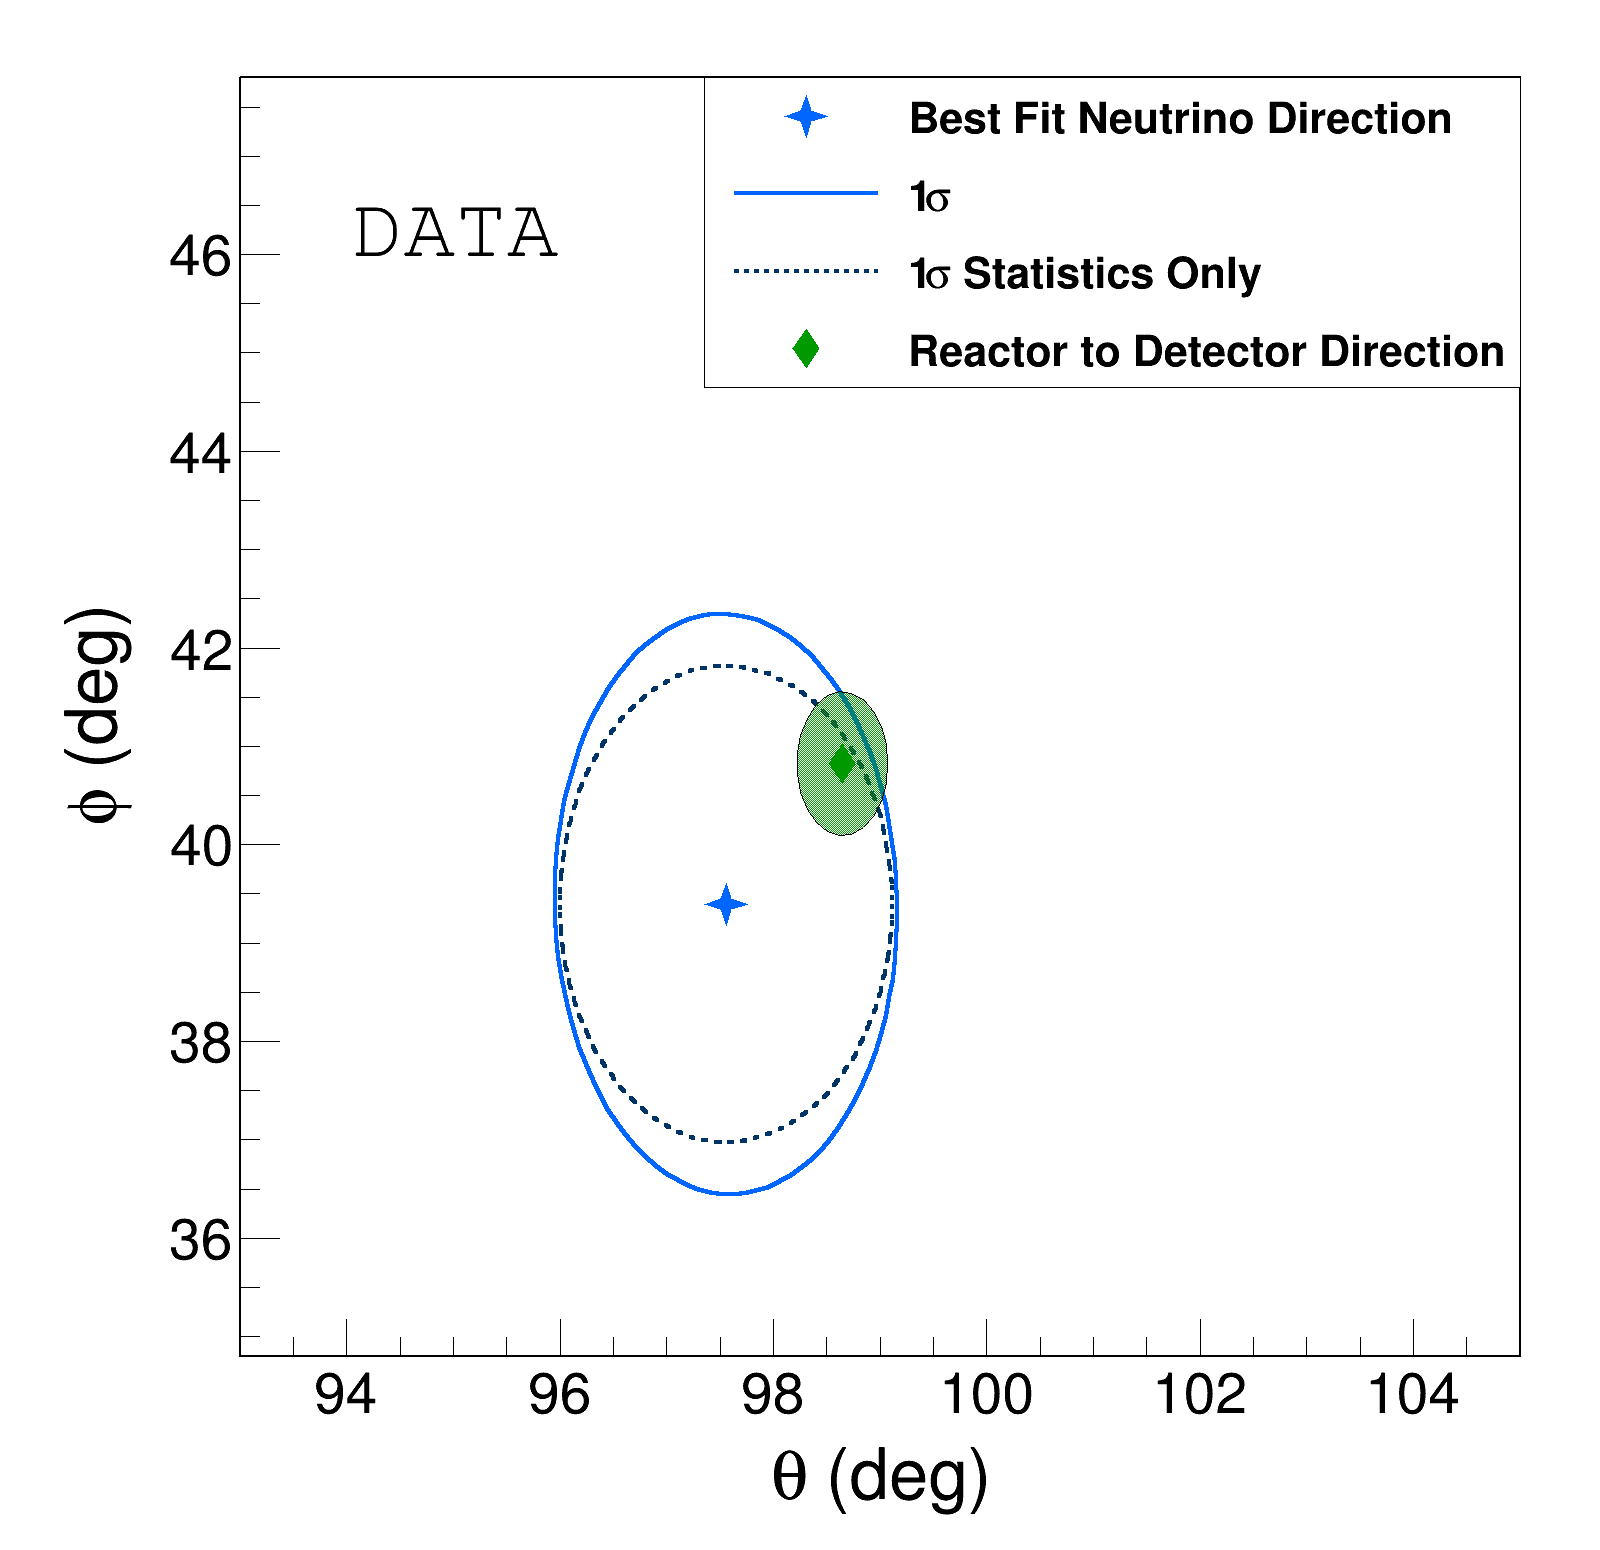
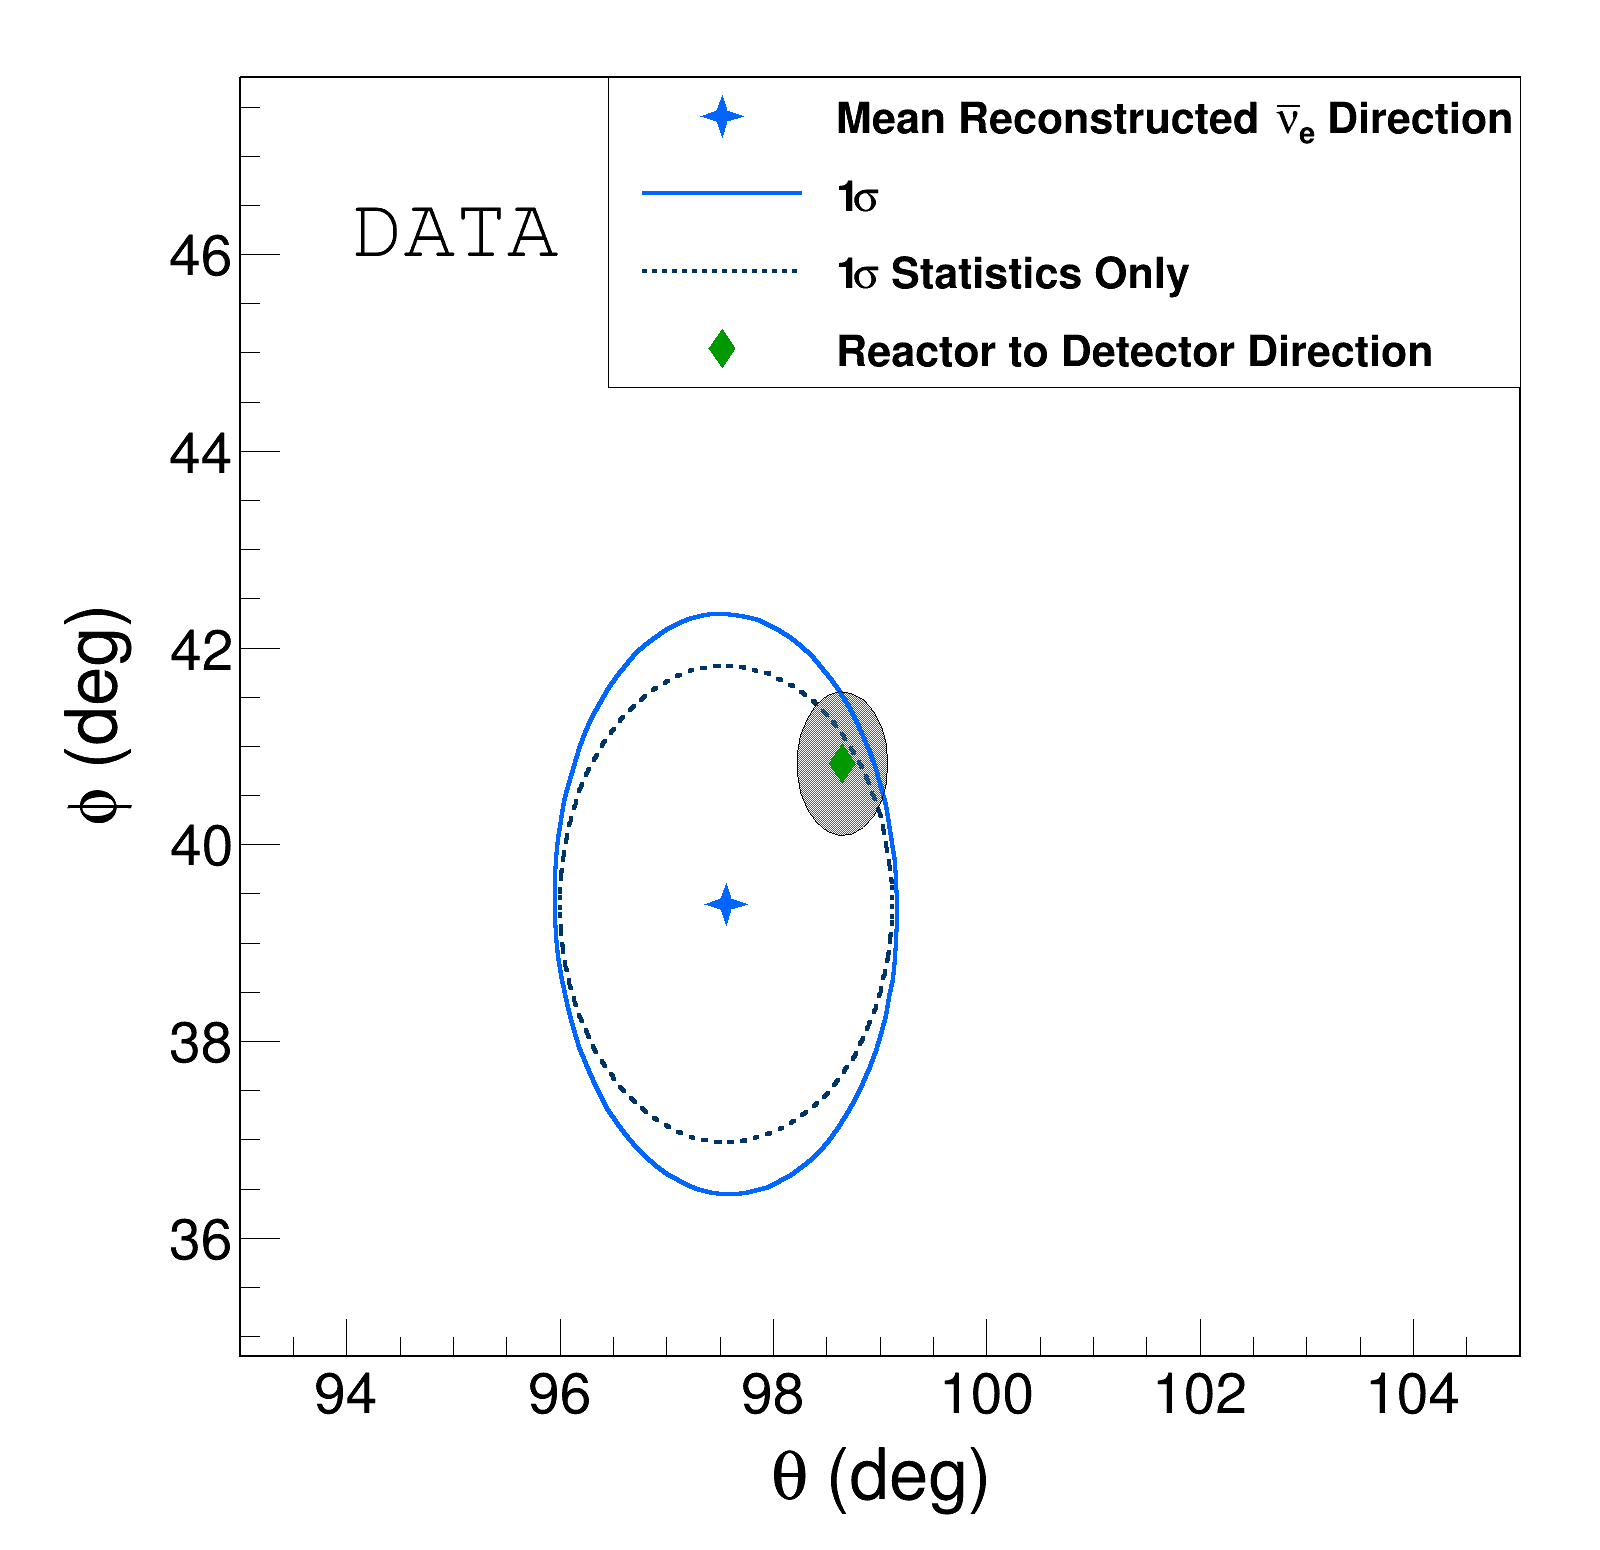
Changed legend again.

diff --git a/NeutrinoDirectionalityPlots.cc b/NeutrinoDirectionalityPlots.cc
@@ -272,8 +272,8 @@ void MakeSimulationPlot(FinalValues const& finalValues)
     TLegend legend(0.54, 0.75, 0.95, 0.95);
     legend.SetTextFont(62);
     legend.SetTextSize(0.03);
-    legend.AddEntry(&simPoint, "Reconstruction (Eq. 5)", "p");
-    legend.AddEntry(&simUncorrectedPoint, "Biased Recon. (Eq. 3)", "p");
+    legend.AddEntry(&simPoint, "Reconstruction", "p");
+    legend.AddEntry(&simUncorrectedPoint, "Biased Reconstruction", "p");
     /* legend.AddEntry(&perfSimPoint, "Perf Sim", "p");
     legend.AddEntry(&perfSimUncorrectedPoint, "Biased Perf Sim", "p"); */
     legend.AddEntry(&statsLine, "Data 1#sigma Statistics", "l");
@@ -392,10 +392,10 @@ void MakeFinalPlot(FinalValues const& finalValues)
     dataLine.SetLineStyle(1);
     dataLine.SetLineWidth(4);
 
-    TLegend legend(0.44, 0.75, 0.95, 0.95);
+    TLegend legend(0.38, 0.75, 0.95, 0.95);
     legend.SetTextFont(62);
     legend.SetTextSize(0.03);
-    legend.AddEntry(&dataPoint, "Best Fit Neutrino Direction", "p");
+    legend.AddEntry(&dataPoint, "Mean Reconstructed #bar{#nu}_{e} Direction", "p");
     legend.AddEntry(&dataLine, "1#sigma", "l");
     legend.AddEntry(&statsLine, "1#sigma Statistics Only", "l");
     // legend.AddEntry(&simPoint, "Simulation", "p");
